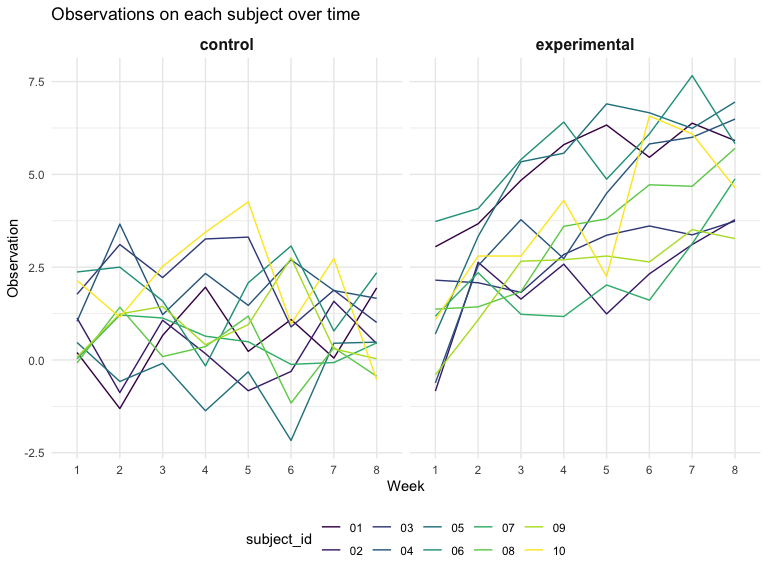
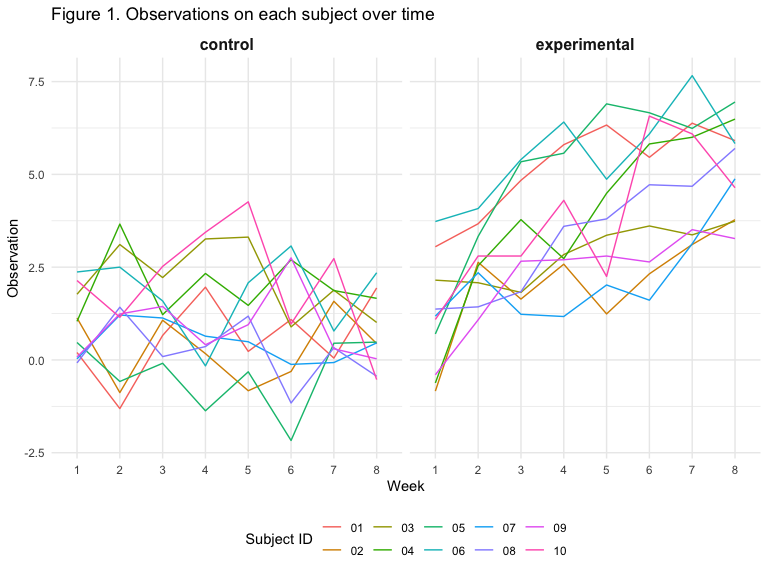
md file upload

diff --git a/p8105_hw5_dz2426.md b/p8105_hw5_dz2426.md
@@ -111,9 +111,9 @@ q2_df %>%
   facet_grid(~group) +
   labs(x = "Week", 
        y = "Observation",
-       title = "Observations on each subject over time",
-       fill = "Subject ID"
+       title = "Figure 1. Observations on each subject over time"
     ) +
+  scale_color_discrete(name = "Subject ID") +
   theme(strip.text = element_text(size = 12, face = 'bold'))
 ```
 
@@ -125,3 +125,112 @@ group compared to those in control group. Furthermore, observations on
 experimental subjects indicated a positive trend over time, while
 subjects in control group did not show significant difference after 8
 weeks.
+
+# Problem 3
+
+``` r
+# Create linear model regression function
+sim_regression = function(n, beta0 = 2, beta1) {
+  
+  sim_data = tibble(
+    x_i1 = rnorm(n, mean = 0, sd = 1),
+    y_i = beta0 + beta1 * x_i1 + rnorm(n, 0, sqrt(50)) # standard error term~N[0, sqrt50]
+  )
+  
+  ls_fit = lm(y_i ~ x_i1, data = sim_data)
+  broom::tidy(ls_fit)
+}
+
+# Set beta1 = 0, and generate 10000 datasets from the model
+lm_rerun = rerun(10000, sim_regression(n = 30, beta1 = 0)) %>% 
+  bind_rows() %>% 
+  janitor::clean_names() %>% 
+  # select correct p_value
+  filter(term == "x_i1") %>% 
+  select(estimate, p_value)
+```
+
+``` r
+# Map all 6 beta1 values into the output
+sim_result_beta1s = 
+  tibble(beta1s = c(1:6)) %>% 
+  mutate(
+    output_list = map(.x = beta1s, ~rerun(10000, sim_regression(n = 30, beta1 = .x))), 
+    output_df = map(output_list, bind_rows)
+  ) %>% 
+  select(-output_list) %>% 
+  unnest(output_df) %>% 
+  janitor::clean_names() %>% 
+  filter(term == "x_i1") %>% 
+  select(beta1s, term, estimate, p_value)
+```
+
+``` r
+q3_plot1 = sim_result_beta1s %>% 
+  group_by(beta1s) %>% 
+  # Count the number of cases when the null test was rejected or not
+  count(p_value < 0.05) %>% 
+  janitor::clean_names() %>%
+  mutate(proportion = n/sum(n)) %>% 
+  # Show only the proportion of times when null was rejected under each beta1
+  filter(p_value_0_05 == "TRUE")
+
+q3_plot1 %>% 
+  ggplot(aes(x = beta1s, y = proportion)) + 
+  geom_point() +
+  geom_line() +
+  scale_x_continuous(breaks = seq(1, 6, by = 1)) +
+  labs(
+    x = "Beta1", y = "Power", 
+    title = "Figure 2. Association between effect size and power",
+    caption = "Simulation iterations: 10000"
+  )
+```
+
+<img src="p8105_hw5_dz2426_files/figure-gfm/unnamed-chunk-7-1.png" width="100%" />
+
+**Comments:**  
+The plot shows a positive association between the power of test and
+effect size. The power increases as the effect size increases.
+
+``` r
+q3_plot2 = sim_result_beta1s %>% 
+  group_by(beta1s) %>% 
+  # Calculate average estimate for each beta1
+  mutate(mean_beta1_hat = mean(estimate)) %>% 
+  select(beta1s, mean_beta1_hat) %>% 
+  # Remove duplicated rows
+  distinct()
+```
+
+``` r
+q3_plot3 = sim_result_beta1s %>% 
+  group_by(beta1s) %>% 
+  # Select samples for which H0 was rejected
+  filter(p_value < 0.05) %>% 
+  mutate(mean_beta1_hat = mean(estimate)) %>% 
+  select(beta1s, mean_beta1_hat) %>% 
+  distinct()
+
+# Combine two graphs on the sample plot
+ggplot(q3_plot2, aes(x = beta1s)) +
+  geom_point(data = q3_plot2, aes(y = mean_beta1_hat)) +
+  geom_point(data = q3_plot3, aes(y = mean_beta1_hat)) +
+  geom_line(data = q3_plot2, aes(y = mean_beta1_hat, color = 'All samples')) +
+  geom_line(data = q3_plot3, aes(y = mean_beta1_hat, color = 'Samples with H0 rejected')) +
+  scale_x_continuous(breaks = seq(1, 6, by = 1)) +
+  scale_y_continuous(breaks = seq(1, 6, by = 0.2)) + 
+  labs(
+    x = "Beta1", y = "Average beta1 estimate", 
+    title = "Figure 3. Association between average beta1 estimate and true beta1",
+    caption = "Simulation iterations: 10000"
+  ) +
+  scale_colour_discrete(name = "line")
+```
+
+<img src="p8105_hw5_dz2426_files/figure-gfm/unnamed-chunk-9-1.png" width="100%" />
+
+**Comments:** The sample average of beta1 estimate across tests for
+which the null is rejected is approaching the true beta1 value as beta1
+increases.  
+At small beta1 value,
